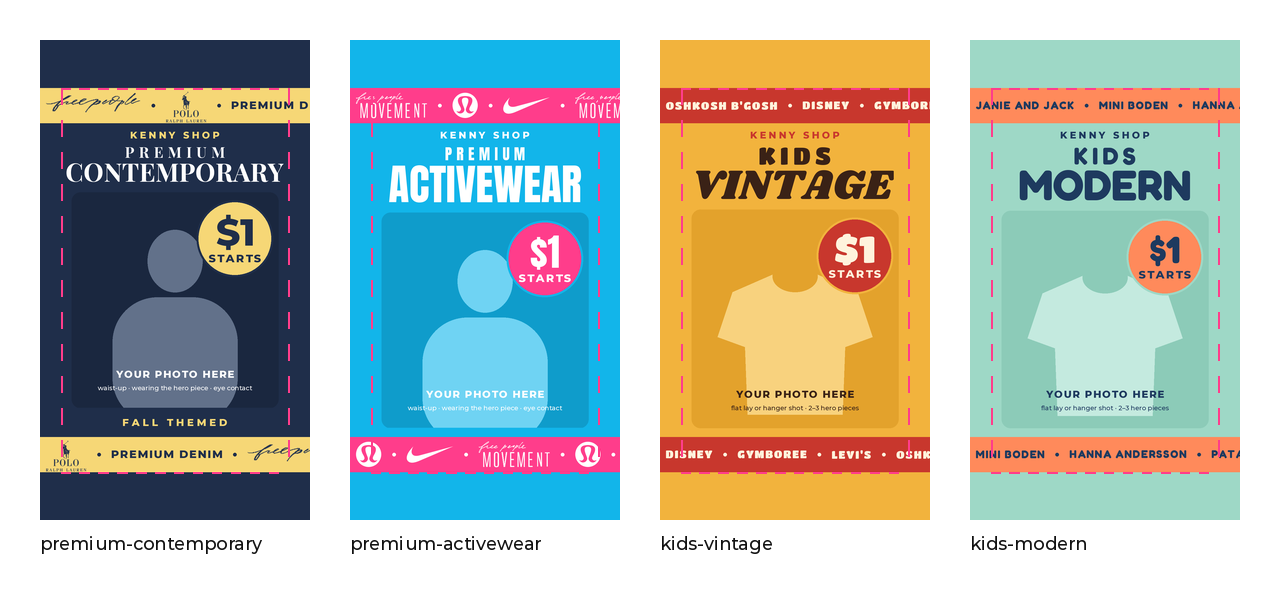
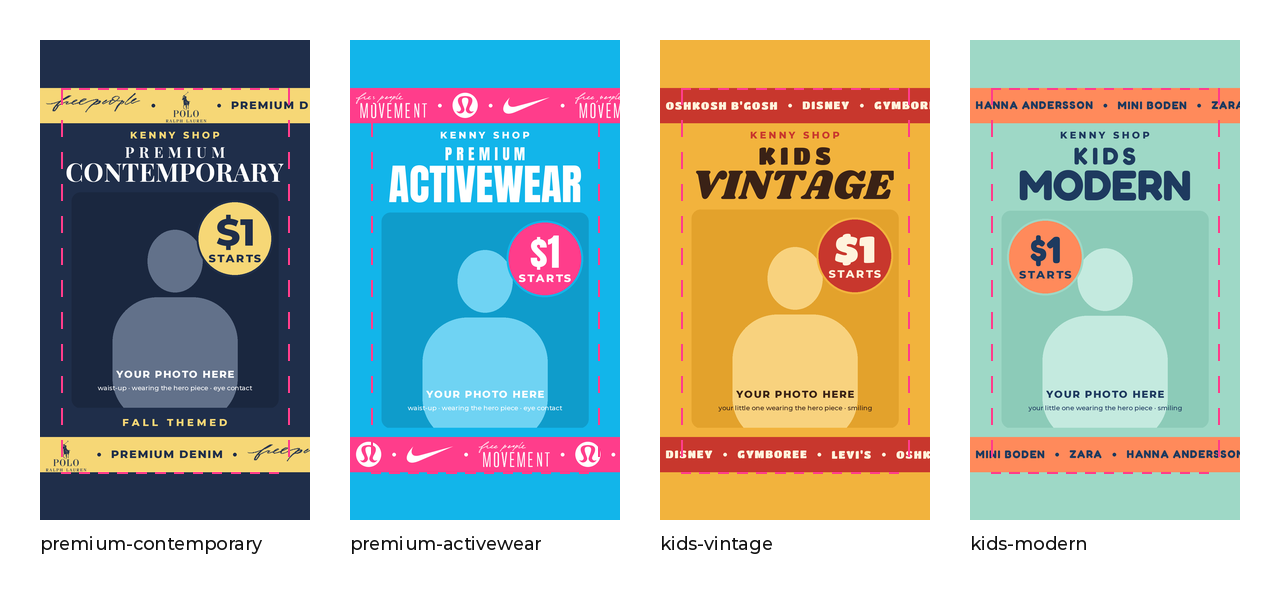
Kids covers: baby and kids size versions with Jade's photos (kept local)
Kids Modern brands are now Hanna Andersson, Mini Boden and Zara. Each kids
show gets NB-24M and 2T-XL covers; photos and finished covers stay out of git.

Claude-Session: https://claude.ai/code/session_01Q51WZ95sB4G4SBq6JMRbx6

Changed region(s): [[0.7812, 0.3426, 0.9688, 0.7475], [0.5625, 0.4049, 0.6875, 0.7164], [0.75, 0.1557, 0.9688, 0.1869]]

diff --git a/02-branding/whatnot-covers/make_covers.py b/02-branding/whatnot-covers/make_covers.py
@@ -48,25 +48,36 @@ SHOWS["premium-contemporary-2"] = dict(
     photo=HERE / "photos" / "contemporary-2.webp", crop=(160, 0, 939, 900),
 )
 
-# Kids shows: no one wears these, so the photo is a flat lay of the hero pieces.
-FLAT_LAY = "flat lay or hanger shot · 2–3 hero pieces"
+# Kids shows: two covers each, baby sizes and kids sizes.
+KID_HINT = "your little one wearing the hero piece · smiling"
 SHOWS["kids-vintage"] = dict(
     # 90s mustard + cherry red, retro type
     bg="#F2B33D", ink="#3A2216", accent="#C8372D", badge_ink="#FFF3DC",
     photo_bg="#E3A22C", figure="#F8D27E",
-    head_font=RETRO, head_scale=1.0, top_font=CHUNKY, figure_shape="tee", top_size=96, badge_font=CHUNKY,
-    top="KIDS", main="VINTAGE", brand_font=CHUNKY, photo_hint=FLAT_LAY,
+    head_font=RETRO, head_scale=1.0, top_font=CHUNKY, top_size=96, badge_font=CHUNKY,
+    top="KIDS", main="VINTAGE", brand_font=CHUNKY, photo_hint=KID_HINT,
+    footer_font=CHUNKY, footer_size=58, footer_ink="#3A2216",
     brands=["OSHKOSH B'GOSH", "DISNEY", "GYMBOREE", "LEVI'S"],
 )
 SHOWS["kids-modern"] = dict(
     # soft mint + navy + tangerine, rounded type
     bg="#9ED8C6", ink="#1E3A5F", accent="#FF8A5B", badge_ink="#1E3A5F", logo="#1E3A5F",
     photo_bg="#8CCBB8", figure="#C4EADF",
-    head_font=ROUND_B, head_scale=1.0, figure_shape="tee", top_size=96, badge_font=ROUND_B,
-    top="KIDS", main="MODERN", brand_font=ROUND_B, photo_hint=FLAT_LAY,
-    brands=["JANIE AND JACK", "MINI BODEN", "HANNA ANDERSSON", "PATAGONIA"],
+    head_font=ROUND_B, head_scale=1.0, top_size=96, badge_font=ROUND_B,
+    top="KIDS", main="MODERN", brand_font=ROUND_B, photo_hint=KID_HINT,
+    footer_font=ROUND_B, footer_size=58, footer_ink="#1E3A5F",
+    brands=["HANNA ANDERSSON", "MINI BODEN", "ZARA"],
+    badge_left=True,  # her face sits right of center in this photo
 )
-
+KID_SIZES = {"baby": "SIZES NB–24M", "kids": "SIZES 2T–XL"}
+KID_PHOTOS = {  # photo, crop
+    "kids-vintage": (HERE / "photos" / "kids-vintage.png", (0, 40, 1320, 1276)),
+    "kids-modern": (HERE / "photos" / "kids-modern.png", (0, 100, 1320, 1336)),
+}
+for show, (photo, crop) in KID_PHOTOS.items():
+    for size, line in KID_SIZES.items():
+        SHOWS[f"{show}-{size}"] = dict(SHOWS[show], footer=line, template=False,
+                                       photo=photo, crop=crop)
 
 def text_img(text, font_path, size, fill, x_scale=1.0, spacing=0):
     """Render text to its own transparent image; x_scale < 1 condenses it."""
@@ -220,18 +231,10 @@ def draw_photo(canvas, s, box):
         return
     d.rounded_rectangle(box, 36, fill=s["photo_bg"])
     cx = (x0 + x1) // 2
-    if s.get("figure_shape") == "tee":
-        # little t-shirt placeholder for flat-lay shows
-        t = y0 + 260
-        d.polygon([(cx - 90, t), (cx - 250, t + 70), (cx - 310, t + 250), (cx - 200, t + 290),
-                   (cx - 190, t + 560), (cx + 190, t + 560), (cx + 200, t + 290),
-                   (cx + 310, t + 250), (cx + 250, t + 70), (cx + 90, t)], fill=s["figure"])
-        d.ellipse((cx - 90, t - 55, cx + 90, t + 70), fill=s["photo_bg"])
-    else:
-        # waist-up figure placeholder
-        d.ellipse((cx - 110, y0 + 150, cx + 110, y0 + 400), fill=s["figure"])
-        d.rounded_rectangle((cx - 250, y0 + 420, cx + 250, y1 + 60), 180, fill=s["figure"])
-        d.rectangle((x0, y1 - 1, x1, y1 + 80), fill=s["bg"])  # clip figure bottom
+    # waist-up figure placeholder
+    d.ellipse((cx - 110, y0 + 150, cx + 110, y0 + 400), fill=s["figure"])
+    d.rounded_rectangle((cx - 250, y0 + 420, cx + 250, y1 + 60), 180, fill=s["figure"])
+    d.rectangle((x0, y1 - 1, x1, y1 + 80), fill=s["bg"])  # clip figure bottom
     label = text_img("YOUR PHOTO HERE", SANS_B, 40, s["ink"], spacing=4)
     canvas.alpha_composite(label, (cx - label.width // 2, y1 - 150))
     hint = s.get("photo_hint", "waist-up · wearing the hero piece · eye contact")
@@ -262,11 +265,13 @@ def build(name, s, out=None):
     y = paste_center(c, fit_text(s["main"], s["head_font"], inner, 170, s["ink"], s["head_scale"]), y) + 40
     footer = None
     if s.get("footer"):
-        footer = text_img(s["footer"], SANS_B, 40, s["accent"], spacing=12)
+        footer = text_img(s["footer"], s.get("footer_font", SANS_B), s.get("footer_size", 40),
+                          s.get("footer_ink", s["accent"]), spacing=12)
     footer_h = footer.height + 52 if footer else 0
     photo_box = (sx0 + 40, y, sx1 - 40, sy1 - BAND - 36 - footer_h)
     draw_photo(c, s, photo_box)
-    badge(c, s, photo_box[2] - 175, photo_box[1] + 185, 145)
+    bx = photo_box[0] + 175 if s.get("badge_left") else photo_box[2] - 175
+    badge(c, s, bx, photo_box[1] + 185, 145)
     if footer:
         fy = photo_box[3] + (sy1 - BAND - photo_box[3] - footer.height) // 2
         c.alpha_composite(footer, ((W - footer.width) // 2, fy))

diff --git a/02-branding/thumbnail-maker.md b/02-branding/thumbnail-maker.md
@@ -56,18 +56,20 @@ slightly low in the strip (`RUNNER_NUDGE` in `make_covers.py`).
 ### Kids Vintage: 90s mustard + cherry
 - Colors: mustard `#F2B33D` · dark brown `#3A2216` (headline) · cherry red `#C8372D` (runners, Kenny Shop, $1 badge) · cream `#FFF3DC` (runner and badge text)
 - Fonts: Shrikhand for "VINTAGE" (retro 70s/90s script), Titan One for "KIDS", the $1 and the runners
-- Text: `KIDS VINTAGE` · `$1 STARTS` · runners: OshKosh B'gosh · Disney · Gymboree · Levi's
-- Photo: flat lay or hanger shot of 2–3 hero pieces (overalls, a character tee, a bright windbreaker) on a plain surface that isn't white
+- Text: `KIDS VINTAGE` · `$1 STARTS` · runners: OshKosh B'gosh · Disney · Gymboree · Levi's (Claude's picks; swap in real brands)
+- Photo: a little one wearing a vintage hero piece (patchwork overalls, a character tee)
 
 ### Kids Modern: soft mint + tangerine
 - Colors: mint `#9ED8C6` · navy `#1E3A5F` (headline, Kenny Shop, runner and badge text) · tangerine `#FF8A5B` (runners, $1 badge)
 - Fonts: Fredoka Bold (rounded) for everything big
-- Text: `KIDS MODERN` · `$1 STARTS` · runners: Janie and Jack · Mini Boden · Hanna Andersson · Patagonia
-- Photo: flat lay of 2–3 current-season pieces that pop against mint (coral, yellow, navy, stripes)
+- Text: `KIDS MODERN` · `$1 STARTS` · runners: Hanna Andersson · Mini Boden · Zara
+- Photo: a little one wearing a current-season piece. The $1 badge sits on the left here so it
+  stays off her face (`badge_left`).
 
-Kids covers show the clothes, not a person, so the placeholder is a tee. The runner brands are
-starting guesses; swap them for the night's real brands in `SHOWS` in `make_covers.py`.
-No kids' faces on covers.
+Each kids show has two covers, one per size run, with the sizes in big type under the photo:
+`SIZES NB–24M` (baby) and `SIZES 2T–XL` (kids). They're in `final/` as
+`kids-vintage-baby`, `kids-vintage-kids`, `kids-modern-baby`, `kids-modern-kids`.
+To use a different photo, put it in `photos/` and change `KID_PHOTOS` in `make_covers.py`.
 
 ## Templates
 - Main cover photo (blank templates): `whatnot-covers/premium-contemporary.png`, `whatnot-covers/premium-activewear.png`,

diff --git a/LESSONS.md b/LESSONS.md
@@ -66,8 +66,11 @@ Claude reads this before every task and adds to it as it goes (see
 
 - Whatnot covers are built by `02-branding/whatnot-covers/make_covers.py`
   (one entry per show in `SHOWS`); style notes live in `02-branding/thumbnail-maker.md`.
-- Kids covers use flat-lay photos, never a child's face. Their runner brands
-  were Claude's guesses; ask Jade which brands to show.
+- Kids shows get two covers each: `SIZES NB–24M` and `SIZES 2T–XL`. Jade
+  sends photos of a child wearing the pieces; keep them in `photos/` (git-ignored,
+  repo is public). Kids Modern brands: Hanna Andersson, Mini Boden, Zara. Kids
+  Vintage brands (OshKosh, Disney, Gymboree, Levi's) are Claude's picks.
+- Phone screenshots of photos: crop out the Photos app bars before using them.
 
 ## Whatnot shows
 
